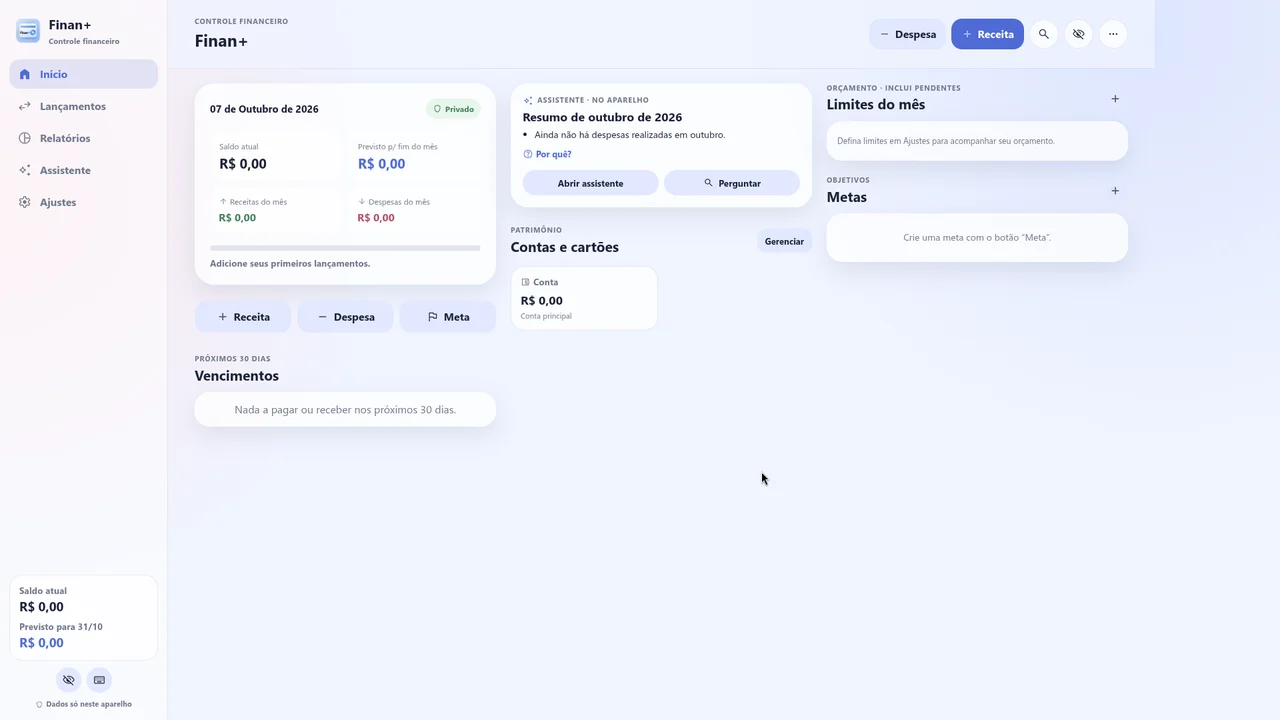
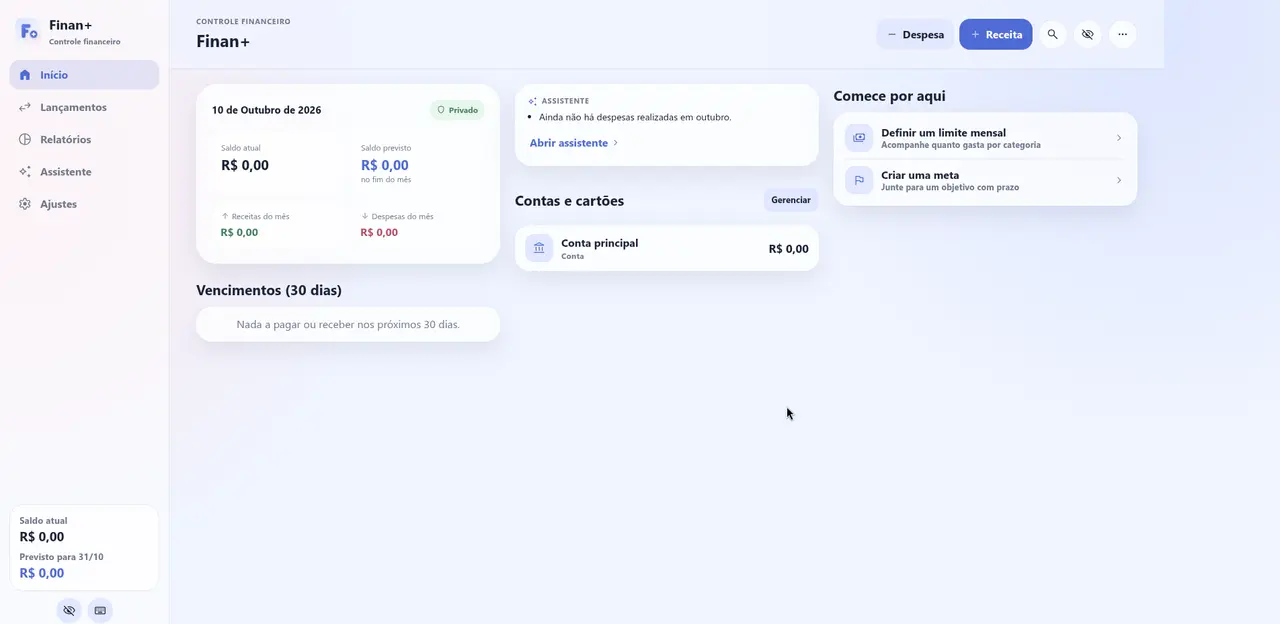
Telas da versão web (PWA) em sequência, sem a barra do navegador
13 capturas na ordem do aplicativo (Início, Lançamentos, Calendário,
Relatórios, Relatório em PDF, E se…?, Ajustes, Atalhos), recortadas
para remover a barra do navegador.

Claude-Session: https://claude.ai/code/session_01XzZHZpxvricMqm5qYvHEZN

diff --git a/index.html b/index.html
@@ -175,23 +175,58 @@ a:focus-visible,summary:focus-visible{outline:3px solid #4269D8;outline-offset:3
 <figure style="flex: 0 0 min(620px, 86%); margin: 0; display: flex; flex-direction: column; gap: 14px; scroll-snap-align: start">
 <div style="border-radius: 22px; padding: 0 8px 8px; background: rgba(255,255,255,0.45); backdrop-filter: blur(24px) saturate(170%); -webkit-backdrop-filter: blur(24px) saturate(170%); border: 1px solid rgba(255,255,255,0.9); box-shadow: inset 0 1px 0 #FFFFFF, 0 24px 56px rgba(58,95,200,0.18)">
 <div style="display: flex; align-items: center; gap: 7px; padding: 12px 8px"><span style="width: 10px; height: 10px; border-radius: 50%; background: rgba(66,105,216,0.35)"></span><span style="width: 10px; height: 10px; border-radius: 50%; background: rgba(66,105,216,0.22)"></span><span style="width: 10px; height: 10px; border-radius: 50%; background: rgba(66,105,216,0.14)"></span></div>
-<img src="assets/telas/web-inicio.webp" alt="Tela inicial da versão web do Finan+ com saldo, resumo do assistente, contas e cartões, limites e metas" loading="lazy" style="width: 100%; height: auto; display: block; border-radius: 14px">
+<img src="assets/telas/web-inicio.webp" alt="Tela inicial da versão web com saldo atual e previsto, receitas e despesas do mês, assistente, contas e o cartão Comece por aqui" loading="lazy" style="width: 100%; height: auto; display: block; border-radius: 14px">
 </div>
-<figcaption style="display: flex; flex-direction: column; gap: 4px; padding: 0 6px"><span style="font-size: 16px; font-weight: 800; color: #182238">Início</span><span style="font-size: 14px; line-height: 1.5; color: #5B6579">Saldo, assistente, contas e metas em uma visão.</span></figcaption>
+<figcaption style="display: flex; flex-direction: column; gap: 4px; padding: 0 6px"><span style="font-size: 16px; font-weight: 800; color: #182238">Início</span><span style="font-size: 14px; line-height: 1.5; color: #5B6579">Saldo, assistente e vencimentos em uma visão.</span></figcaption>
 </figure>
 <figure style="flex: 0 0 min(620px, 86%); margin: 0; display: flex; flex-direction: column; gap: 14px; scroll-snap-align: start">
 <div style="border-radius: 22px; padding: 0 8px 8px; background: rgba(255,255,255,0.45); backdrop-filter: blur(24px) saturate(170%); -webkit-backdrop-filter: blur(24px) saturate(170%); border: 1px solid rgba(255,255,255,0.9); box-shadow: inset 0 1px 0 #FFFFFF, 0 24px 56px rgba(58,95,200,0.18)">
 <div style="display: flex; align-items: center; gap: 7px; padding: 12px 8px"><span style="width: 10px; height: 10px; border-radius: 50%; background: rgba(66,105,216,0.35)"></span><span style="width: 10px; height: 10px; border-radius: 50%; background: rgba(66,105,216,0.22)"></span><span style="width: 10px; height: 10px; border-radius: 50%; background: rgba(66,105,216,0.14)"></span></div>
-<img src="assets/telas/web-lancamentos.webp" alt="Tela de lançamentos da versão web com filtros de período à esquerda e lista à direita" loading="lazy" style="width: 100%; height: auto; display: block; border-radius: 14px">
+<img src="assets/telas/web-lancamentos.webp" alt="Lançamentos da versão web em lista, com mês, busca, filtros de um toque e resumo à esquerda" loading="lazy" style="width: 100%; height: auto; display: block; border-radius: 14px">
 </div>
-<figcaption style="display: flex; flex-direction: column; gap: 4px; padding: 0 6px"><span style="font-size: 16px; font-weight: 800; color: #182238">Lançamentos</span><span style="font-size: 14px; line-height: 1.5; color: #5B6579">Filtros e comparação lado a lado com a lista.</span></figcaption>
+<figcaption style="display: flex; flex-direction: column; gap: 4px; padding: 0 6px"><span style="font-size: 16px; font-weight: 800; color: #182238">Lançamentos</span><span style="font-size: 14px; line-height: 1.5; color: #5B6579">Mês a mês, filtros de um toque e lista por dia.</span></figcaption>
 </figure>
 <figure style="flex: 0 0 min(620px, 86%); margin: 0; display: flex; flex-direction: column; gap: 14px; scroll-snap-align: start">
 <div style="border-radius: 22px; padding: 0 8px 8px; background: rgba(255,255,255,0.45); backdrop-filter: blur(24px) saturate(170%); -webkit-backdrop-filter: blur(24px) saturate(170%); border: 1px solid rgba(255,255,255,0.9); box-shadow: inset 0 1px 0 #FFFFFF, 0 24px 56px rgba(58,95,200,0.18)">
 <div style="display: flex; align-items: center; gap: 7px; padding: 12px 8px"><span style="width: 10px; height: 10px; border-radius: 50%; background: rgba(66,105,216,0.35)"></span><span style="width: 10px; height: 10px; border-radius: 50%; background: rgba(66,105,216,0.22)"></span><span style="width: 10px; height: 10px; border-radius: 50%; background: rgba(66,105,216,0.14)"></span></div>
-<img src="assets/telas/web-relatorios.webp" alt="Tela de relatórios da versão web com despesas por categoria, evolução de seis meses e exportação em PDF" loading="lazy" style="width: 100%; height: auto; display: block; border-radius: 14px">
+<img src="assets/telas/web-calendario.webp" alt="Calendário da versão web com o mês em grade, totais e o dia escolhido com Receita, Despesa e saldo previsto" loading="lazy" style="width: 100%; height: auto; display: block; border-radius: 14px">
 </div>
-<figcaption style="display: flex; flex-direction: column; gap: 4px; padding: 0 6px"><span style="font-size: 16px; font-weight: 800; color: #182238">Relatórios</span><span style="font-size: 14px; line-height: 1.5; color: #5B6579">Gráficos e relatório em PDF gerado no aparelho.</span></figcaption>
+<figcaption style="display: flex; flex-direction: column; gap: 4px; padding: 0 6px"><span style="font-size: 16px; font-weight: 800; color: #182238">Calendário</span><span style="font-size: 14px; line-height: 1.5; color: #5B6579">Saldo de cada dia e lançamento direto na data.</span></figcaption>
+</figure>
+<figure style="flex: 0 0 min(620px, 86%); margin: 0; display: flex; flex-direction: column; gap: 14px; scroll-snap-align: start">
+<div style="border-radius: 22px; padding: 0 8px 8px; background: rgba(255,255,255,0.45); backdrop-filter: blur(24px) saturate(170%); -webkit-backdrop-filter: blur(24px) saturate(170%); border: 1px solid rgba(255,255,255,0.9); box-shadow: inset 0 1px 0 #FFFFFF, 0 24px 56px rgba(58,95,200,0.18)">
+<div style="display: flex; align-items: center; gap: 7px; padding: 12px 8px"><span style="width: 10px; height: 10px; border-radius: 50%; background: rgba(66,105,216,0.35)"></span><span style="width: 10px; height: 10px; border-radius: 50%; background: rgba(66,105,216,0.22)"></span><span style="width: 10px; height: 10px; border-radius: 50%; background: rgba(66,105,216,0.14)"></span></div>
+<img src="assets/telas/web-relatorios.webp" alt="Relatórios da versão web com mês, atalho para o calendário, cartão E se, evolução e despesas por categoria" loading="lazy" style="width: 100%; height: auto; display: block; border-radius: 14px">
+</div>
+<figcaption style="display: flex; flex-direction: column; gap: 4px; padding: 0 6px"><span style="font-size: 16px; font-weight: 800; color: #182238">Relatórios</span><span style="font-size: 14px; line-height: 1.5; color: #5B6579">Comparação justa, “E se…?” e PDF no título.</span></figcaption>
+</figure>
+<figure style="flex: 0 0 min(620px, 86%); margin: 0; display: flex; flex-direction: column; gap: 14px; scroll-snap-align: start">
+<div style="border-radius: 22px; padding: 0 8px 8px; background: rgba(255,255,255,0.45); backdrop-filter: blur(24px) saturate(170%); -webkit-backdrop-filter: blur(24px) saturate(170%); border: 1px solid rgba(255,255,255,0.9); box-shadow: inset 0 1px 0 #FFFFFF, 0 24px 56px rgba(58,95,200,0.18)">
+<div style="display: flex; align-items: center; gap: 7px; padding: 12px 8px"><span style="width: 10px; height: 10px; border-radius: 50%; background: rgba(66,105,216,0.35)"></span><span style="width: 10px; height: 10px; border-radius: 50%; background: rgba(66,105,216,0.22)"></span><span style="width: 10px; height: 10px; border-radius: 50%; background: rgba(66,105,216,0.14)"></span></div>
+<img src="assets/telas/web-relatorio-pdf.webp" alt="Janela do relatório em PDF da versão web com atalhos de período, datas e opção de incluir a lista de lançamentos" loading="lazy" style="width: 100%; height: auto; display: block; border-radius: 14px">
+</div>
+<figcaption style="display: flex; flex-direction: column; gap: 4px; padding: 0 6px"><span style="font-size: 16px; font-weight: 800; color: #182238">Relatório em PDF</span><span style="font-size: 14px; line-height: 1.5; color: #5B6579">Qualquer período, gerado no próprio navegador.</span></figcaption>
+</figure>
+<figure style="flex: 0 0 min(620px, 86%); margin: 0; display: flex; flex-direction: column; gap: 14px; scroll-snap-align: start">
+<div style="border-radius: 22px; padding: 0 8px 8px; background: rgba(255,255,255,0.45); backdrop-filter: blur(24px) saturate(170%); -webkit-backdrop-filter: blur(24px) saturate(170%); border: 1px solid rgba(255,255,255,0.9); box-shadow: inset 0 1px 0 #FFFFFF, 0 24px 56px rgba(58,95,200,0.18)">
+<div style="display: flex; align-items: center; gap: 7px; padding: 12px 8px"><span style="width: 10px; height: 10px; border-radius: 50%; background: rgba(66,105,216,0.35)"></span><span style="width: 10px; height: 10px; border-radius: 50%; background: rgba(66,105,216,0.22)"></span><span style="width: 10px; height: 10px; border-radius: 50%; background: rgba(66,105,216,0.14)"></span></div>
+<img src="assets/telas/web-e-se.webp" alt="Simulador E se da versão web com a base do mês típico, ajuste da base e as quatro perguntas" loading="lazy" style="width: 100%; height: auto; display: block; border-radius: 14px">
+</div>
+<figcaption style="display: flex; flex-direction: column; gap: 4px; padding: 0 6px"><span style="font-size: 16px; font-weight: 800; color: #182238">Simulador “E se…?”</span><span style="font-size: 14px; line-height: 1.5; color: #5B6579">Teste decisões sem mexer nos seus dados.</span></figcaption>
+</figure>
+<figure style="flex: 0 0 min(620px, 86%); margin: 0; display: flex; flex-direction: column; gap: 14px; scroll-snap-align: start">
+<div style="border-radius: 22px; padding: 0 8px 8px; background: rgba(255,255,255,0.45); backdrop-filter: blur(24px) saturate(170%); -webkit-backdrop-filter: blur(24px) saturate(170%); border: 1px solid rgba(255,255,255,0.9); box-shadow: inset 0 1px 0 #FFFFFF, 0 24px 56px rgba(58,95,200,0.18)">
+<div style="display: flex; align-items: center; gap: 7px; padding: 12px 8px"><span style="width: 10px; height: 10px; border-radius: 50%; background: rgba(66,105,216,0.35)"></span><span style="width: 10px; height: 10px; border-radius: 50%; background: rgba(66,105,216,0.22)"></span><span style="width: 10px; height: 10px; border-radius: 50%; background: rgba(66,105,216,0.14)"></span></div>
+<img src="assets/telas/web-e-se-comprar.webp" alt="Simulação de quanto tempo para comprar um notebook, com resultado em meses, gráfico e alternativas" loading="lazy" style="width: 100%; height: auto; display: block; border-radius: 14px">
+</div>
+<figcaption style="display: flex; flex-direction: column; gap: 4px; padding: 0 6px"><span style="font-size: 16px; font-weight: 800; color: #182238">Quanto tempo para comprar?</span><span style="font-size: 14px; line-height: 1.5; color: #5B6579">Meses até juntar, com gráfico e alternativas.</span></figcaption>
+</figure>
+<figure style="flex: 0 0 min(620px, 86%); margin: 0; display: flex; flex-direction: column; gap: 14px; scroll-snap-align: start">
+<div style="border-radius: 22px; padding: 0 8px 8px; background: rgba(255,255,255,0.45); backdrop-filter: blur(24px) saturate(170%); -webkit-backdrop-filter: blur(24px) saturate(170%); border: 1px solid rgba(255,255,255,0.9); box-shadow: inset 0 1px 0 #FFFFFF, 0 24px 56px rgba(58,95,200,0.18)">
+<div style="display: flex; align-items: center; gap: 7px; padding: 12px 8px"><span style="width: 10px; height: 10px; border-radius: 50%; background: rgba(66,105,216,0.35)"></span><span style="width: 10px; height: 10px; border-radius: 50%; background: rgba(66,105,216,0.22)"></span><span style="width: 10px; height: 10px; border-radius: 50%; background: rgba(66,105,216,0.14)"></span></div>
+<img src="assets/telas/web-e-se-economizar.webp" alt="Simulação de economizar por mês com o total juntado e o aviso quando o valor passa do que sobra" loading="lazy" style="width: 100%; height: auto; display: block; border-radius: 14px">
+</div>
+<figcaption style="display: flex; flex-direction: column; gap: 4px; padding: 0 6px"><span style="font-size: 16px; font-weight: 800; color: #182238">E se eu economizar…?</span><span style="font-size: 14px; line-height: 1.5; color: #5B6579">Total juntado e quanto passa a sobrar.</span></figcaption>
 </figure>
 <figure style="flex: 0 0 min(620px, 86%); margin: 0; display: flex; flex-direction: column; gap: 14px; scroll-snap-align: start">
 <div style="border-radius: 22px; padding: 0 8px 8px; background: rgba(255,255,255,0.45); backdrop-filter: blur(24px) saturate(170%); -webkit-backdrop-filter: blur(24px) saturate(170%); border: 1px solid rgba(255,255,255,0.9); box-shadow: inset 0 1px 0 #FFFFFF, 0 24px 56px rgba(58,95,200,0.18)">
@@ -203,9 +238,30 @@ a:focus-visible,summary:focus-visible{outline:3px solid #4269D8;outline-offset:3
 <figure style="flex: 0 0 min(620px, 86%); margin: 0; display: flex; flex-direction: column; gap: 14px; scroll-snap-align: start">
 <div style="border-radius: 22px; padding: 0 8px 8px; background: rgba(255,255,255,0.45); backdrop-filter: blur(24px) saturate(170%); -webkit-backdrop-filter: blur(24px) saturate(170%); border: 1px solid rgba(255,255,255,0.9); box-shadow: inset 0 1px 0 #FFFFFF, 0 24px 56px rgba(58,95,200,0.18)">
 <div style="display: flex; align-items: center; gap: 7px; padding: 12px 8px"><span style="width: 10px; height: 10px; border-radius: 50%; background: rgba(66,105,216,0.35)"></span><span style="width: 10px; height: 10px; border-radius: 50%; background: rgba(66,105,216,0.22)"></span><span style="width: 10px; height: 10px; border-radius: 50%; background: rgba(66,105,216,0.14)"></span></div>
-<img src="assets/telas/web-ajustes.webp" alt="Tela de ajustes da versão web com aparência, privacidade, contas, recorrências, limites, categorias e dados" loading="lazy" style="width: 100%; height: auto; display: block; border-radius: 14px">
+<img src="assets/telas/web-ajustes.webp" alt="Tela de ajustes da versão web com aparência, privacidade, avisos, assistente, contas, recorrências, limites, categorias e dados" loading="lazy" style="width: 100%; height: auto; display: block; border-radius: 14px">
 </div>
 <figcaption style="display: flex; flex-direction: column; gap: 4px; padding: 0 6px"><span style="font-size: 16px; font-weight: 800; color: #182238">Ajustes</span><span style="font-size: 14px; line-height: 1.5; color: #5B6579">Todas as configurações em duas colunas.</span></figcaption>
+</figure>
+<figure style="flex: 0 0 min(620px, 86%); margin: 0; display: flex; flex-direction: column; gap: 14px; scroll-snap-align: start">
+<div style="border-radius: 22px; padding: 0 8px 8px; background: rgba(255,255,255,0.45); backdrop-filter: blur(24px) saturate(170%); -webkit-backdrop-filter: blur(24px) saturate(170%); border: 1px solid rgba(255,255,255,0.9); box-shadow: inset 0 1px 0 #FFFFFF, 0 24px 56px rgba(58,95,200,0.18)">
+<div style="display: flex; align-items: center; gap: 7px; padding: 12px 8px"><span style="width: 10px; height: 10px; border-radius: 50%; background: rgba(66,105,216,0.35)"></span><span style="width: 10px; height: 10px; border-radius: 50%; background: rgba(66,105,216,0.22)"></span><span style="width: 10px; height: 10px; border-radius: 50%; background: rgba(66,105,216,0.14)"></span></div>
+<img src="assets/telas/web-ajustes-aparencia.webp" alt="Ajustes da versão web com os temas e as opções de privacidade e segurança abertos" loading="lazy" style="width: 100%; height: auto; display: block; border-radius: 14px">
+</div>
+<figcaption style="display: flex; flex-direction: column; gap: 4px; padding: 0 6px"><span style="font-size: 16px; font-weight: 800; color: #182238">Temas e privacidade</span><span style="font-size: 14px; line-height: 1.5; color: #5B6579">Seis temas, PIN e dados criptografados (AES-256).</span></figcaption>
+</figure>
+<figure style="flex: 0 0 min(620px, 86%); margin: 0; display: flex; flex-direction: column; gap: 14px; scroll-snap-align: start">
+<div style="border-radius: 22px; padding: 0 8px 8px; background: rgba(255,255,255,0.45); backdrop-filter: blur(24px) saturate(170%); -webkit-backdrop-filter: blur(24px) saturate(170%); border: 1px solid rgba(255,255,255,0.9); box-shadow: inset 0 1px 0 #FFFFFF, 0 24px 56px rgba(58,95,200,0.18)">
+<div style="display: flex; align-items: center; gap: 7px; padding: 12px 8px"><span style="width: 10px; height: 10px; border-radius: 50%; background: rgba(66,105,216,0.35)"></span><span style="width: 10px; height: 10px; border-radius: 50%; background: rgba(66,105,216,0.22)"></span><span style="width: 10px; height: 10px; border-radius: 50%; background: rgba(66,105,216,0.14)"></span></div>
+<img src="assets/telas/web-ajustes-avisos.webp" alt="Ajustes da versão web com os avisos de vencimento e as funções do assistente abertos" loading="lazy" style="width: 100%; height: auto; display: block; border-radius: 14px">
+</div>
+<figcaption style="display: flex; flex-direction: column; gap: 4px; padding: 0 6px"><span style="font-size: 16px; font-weight: 800; color: #182238">Avisos e assistente</span><span style="font-size: 14px; line-height: 1.5; color: #5B6579">Avisos de vencimento e funções que desligam.</span></figcaption>
+</figure>
+<figure style="flex: 0 0 min(620px, 86%); margin: 0; display: flex; flex-direction: column; gap: 14px; scroll-snap-align: start">
+<div style="border-radius: 22px; padding: 0 8px 8px; background: rgba(255,255,255,0.45); backdrop-filter: blur(24px) saturate(170%); -webkit-backdrop-filter: blur(24px) saturate(170%); border: 1px solid rgba(255,255,255,0.9); box-shadow: inset 0 1px 0 #FFFFFF, 0 24px 56px rgba(58,95,200,0.18)">
+<div style="display: flex; align-items: center; gap: 7px; padding: 12px 8px"><span style="width: 10px; height: 10px; border-radius: 50%; background: rgba(66,105,216,0.35)"></span><span style="width: 10px; height: 10px; border-radius: 50%; background: rgba(66,105,216,0.22)"></span><span style="width: 10px; height: 10px; border-radius: 50%; background: rgba(66,105,216,0.14)"></span></div>
+<img src="assets/telas/web-atalhos.webp" alt="Janela de atalhos de teclado da versão web com lançamentos, navegação, privacidade e dados" loading="lazy" style="width: 100%; height: auto; display: block; border-radius: 14px">
+</div>
+<figcaption style="display: flex; flex-direction: column; gap: 4px; padding: 0 6px"><span style="font-size: 16px; font-weight: 800; color: #182238">Atalhos de teclado</span><span style="font-size: 14px; line-height: 1.5; color: #5B6579">Use tudo pelo teclado no computador.</span></figcaption>
 </figure>
 </div>
 </div>
